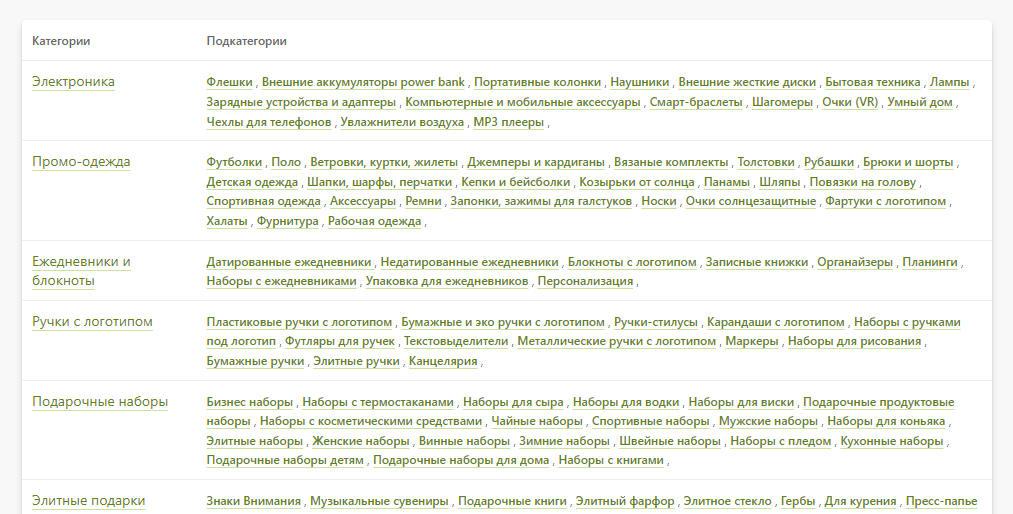
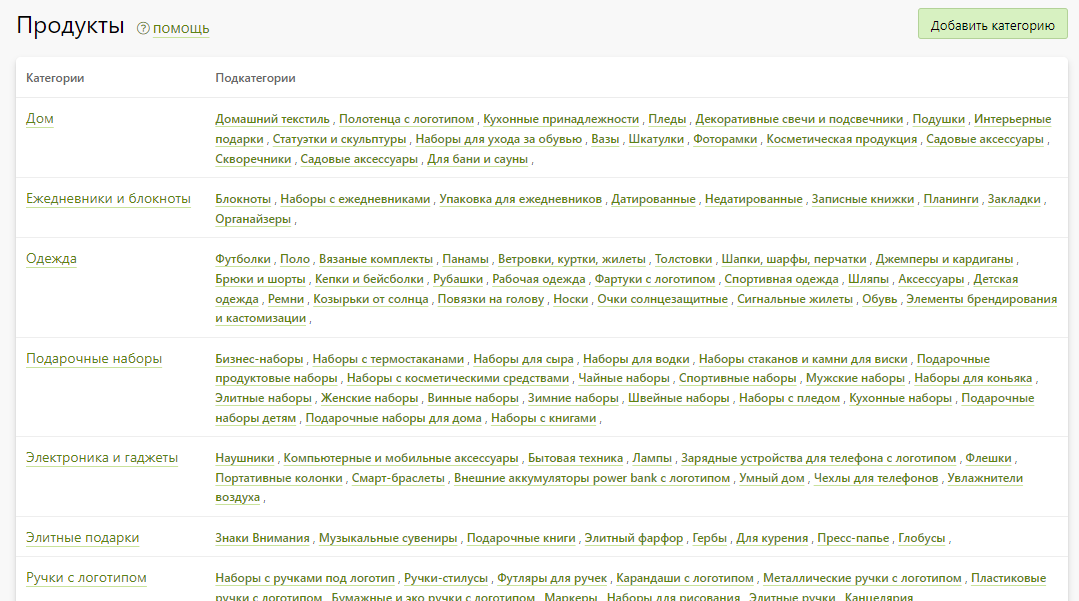
add screenshots gift->faq

diff --git a/docs/gift/faq.md b/docs/gift/faq.md
@@ -20,20 +20,32 @@ sidebar_position: 5
 ### Настройка каталогов
 Для настройки каталогов бизнес-сувениров, отображаемых на вашем сайте, необходимо выполнить следующие действия:
 1. В разделе "__Сувениры / Настройка / Каталоги__" отключить неиспользуемые каталоги. Для оставшихся по возможности указать персональные логин и пароль для получения выгрузок. Но, если этого не сделать, синхронизация с каталогами будет работать и со стандартными. Отметим, что каталог "Продукты 1С" позволяет массово загрузить ваши продукты из внешнего файла, а каталог "Свои продукты" - добавлять продукты вручную через панель управления.
+* ![](../_media/gift/settings-catalogs.png)
 2. В разделе "__Сувениры / Настройка / Основное__" в блоке "__Правила тиражности__" переопределить стоимость продукции, которая по умолчанию совпадает с рекомендуемой розничной. Для этого необходимо нажать на "__Любой__" вид нанесения, а затем в открывшемся модальном окне в поле "__Множитель__" указать значение "__1,3__", если стоимость продукции надо увеличить на 30%.
+* ![](../_media/gift/gift36.png)
 3. В разделе "__Сувениры / Продукты__" изменить наборы категорий, подкатегорий и продуктов. А также при желании изменить описание продуктов и прочие характеристики.
+* ![](../_media/gift/gift15.png)
 4. В разделе "__Сувениры / Виды нанесения__" изменить список видов нанесения, которые отображаются на сайте в карточке товара.
+* ![](../_media/gift/gift21.png)
 
 ### Настройка контента
 Настройка иного содержимого сайта описана ниже:
 1. __Раздел "Портфолио"__ редактируется в "Фотогалерея / Иллюстрации".
+* ![](../_media/gift/gift41.png)
 2. __Раздел "Виды нанесения"__ редактируется в "CMS / Страницы" → Папка "application-types" → Страницы.
+* ![](../_media/gift/gift42.png)
 3. __Раздел "Подборки"__ редактируется в "CMS / Страницы" → Папка "selections" → Страницы.
+* ![](../_media/gift/gift43.png)
 4. __Раздел "Новинки" и "Рекомендуемые"__ редактируется в "Сувениры / Продукты" → Карточка продукта → Настройки "Продукт является новинкой / рекомендуемым".
+* ![](../_media/gift/gift44.png)
 5. __Новости на главной__ редактируются в "Новости / Лента новостей".
+* ![](../_media/gift/gift45.png)
 6. __Отзывы на главной__ редактируются в "Отзывы / Гостевая книга" (предварительно разместив их через страницу отзывов на сайте).
+* ![](../_media/gift/gift46.png)
 7. __Популярные категории на главной__ редактируется в "CMS / Страницы / Блоки" → Блок "Контент | популярные категории".
+* ![](../_media/gift/gift47.png)
 8. __Слайдер на главной__ редактируется в "CMS / Страницы / Блоки" → Вкладка "Контент" → Блоки "Контент | главная - слайд 1(2/3)".
+* ![](../_media/gift/gift48.png)
 
 ## Видеоуроки
 ### Как установить цены на сувениры
